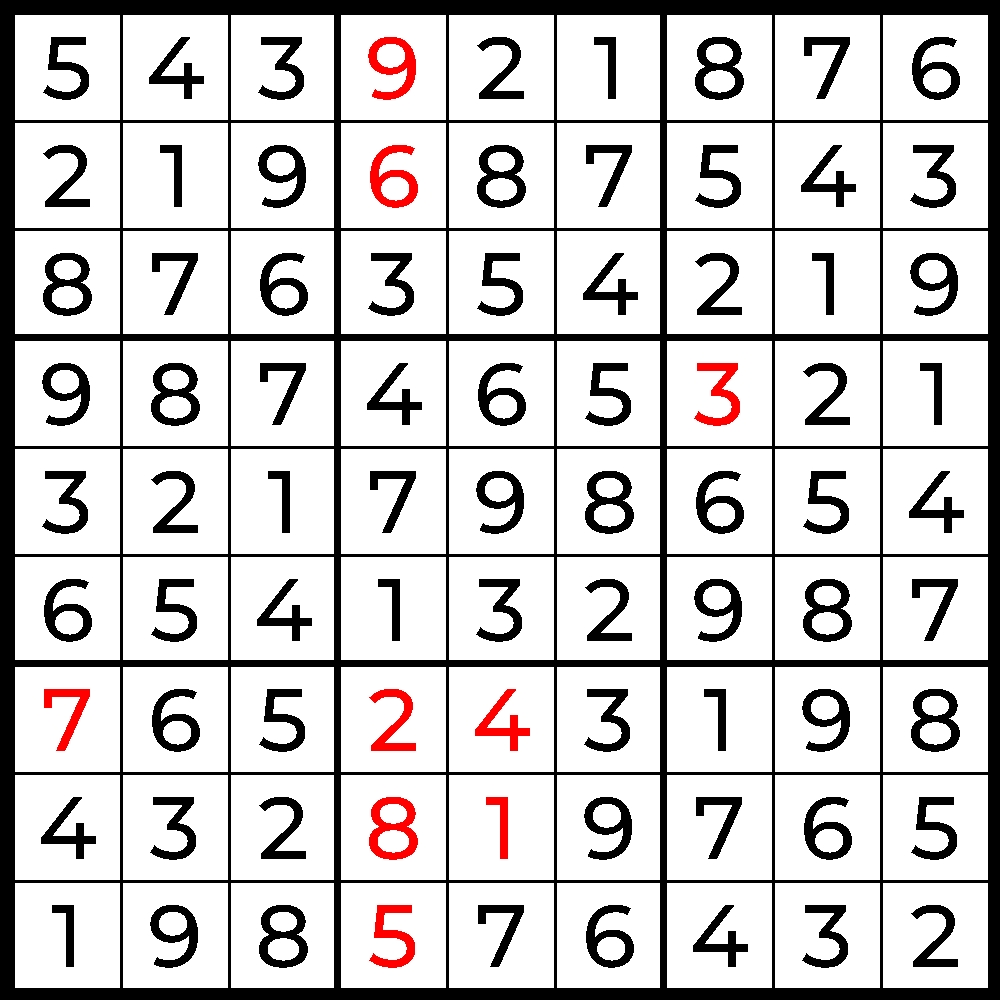
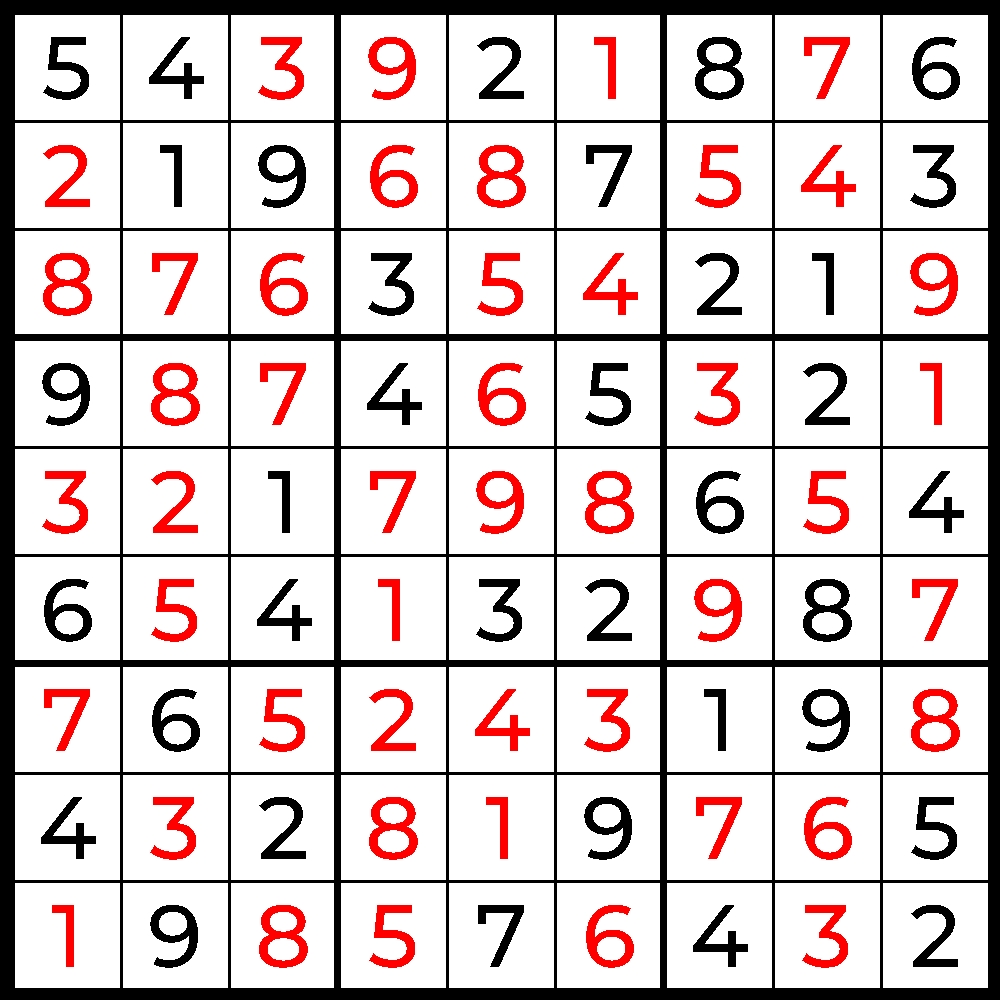
finish & fix create final grid

diff --git a/sudokuSolver/outputGrid/createOutputGrid.c b/sudokuSolver/outputGrid/createOutputGrid.c
@@ -8,6 +8,17 @@
 #include "../solver/sudoku_solver.h"
 #include <SDL_ttf.h>
 
+
+//path to file :
+
+//path to grid (input and solved)
+#define PATH_INPUT_GRID "../data/input_matrix/input_matrix.result"
+#define PATH_SOLVED_GRID "grid.result"
+
+//path to digit font
+#define PATH_FONT "../data/font/MontserratMedium.ttf"
+
+
 #define GRID_WIDTH 1000
 #define GRID_HEIGHT 1000
 
@@ -24,8 +35,26 @@ static int solvedGrid[9][9];
 static Uint32 lineColor;
 static Uint32 bgColor;
 
+static TTF_Font* font;
 
-void createGrid(SDL_Surface* img, int x_0, int y_0, int w, double widthBorder, int depthLevel, Uint32 digitColor, TTF_Font* font, int id){
+
+/***************************************************************
+ *  Function createGrid: 
+ *
+ *  Recursif function to create all square with digit of the grid 
+ *
+ *  @intput :
+ *      - img (SDL_Surface*) : input image (only background)
+ *      - x_0 (int) : x coordonate to start to draw
+ *      - y_0 (int) : y coordonate to start to draw
+ *      - w (int) : width of the square to draw
+ *      - widthBorder (double) : witdh of sqare's borders to draw
+ *      - depthLevel (int) : level of the recursion (nb of recursion inside)
+ *      - digitColor (Uint32) : color of the digit 
+ *      - id (int) : id of the current case (use to calculate x,y in the grid)
+***************************************************************/
+
+void createGrid(SDL_Surface* img, int x_0, int y_0, int w, double widthBorder, int depthLevel, Uint32 digitColor, int id){
     
     if(depthLevel <= 0){
         return;
@@ -62,20 +91,18 @@ void createGrid(SDL_Surface* img, int x_0, int y_0, int w, double widthBorder, i
 
         SDL_BlitSurface(textSurface, NULL, img, &dstRect);
         SDL_FreeSurface(textSurface);
+        return;
     }
 
-
-
+    //start to create sub square / recurtion
     int new_widthBorder = (int) (widthBorder * RATIO_BORDER);
     int new_w = w / NB_SUB_square ;
-
     depthLevel--;
 
     for (int x = 0; x < NB_SUB_square; x++)
     {
         for (int y = 0; y < NB_SUB_square; y++)
-        {
-            
+        {            
             int new_x_0 = x_0 + widthBorder - new_widthBorder + x * (new_w - new_widthBorder);
             int new_y_0 = y_0 + widthBorder - new_widthBorder + y * (new_w - new_widthBorder);
 
@@ -92,49 +119,69 @@ void createGrid(SDL_Surface* img, int x_0, int y_0, int w, double widthBorder, i
 
                 if(defaultGrid[(id/3)*3 + y][(id%3)*3 + x] == 0){
                     new_id = solvedGrid[(id/3)*3 + y][(id%3)*3 + x];
+                    createGrid(img, new_x_0, new_y_0, new_w, new_widthBorder, depthLevel, digitColor, new_id);
+                    continue;
+
                 }else{
-                    new_id = defaultGrid[(id/3)*3 + y][(id%3)*3 + x];  
-                    digitColor = lineColor; 
-                    
+                    new_id = defaultGrid[(id/3)*3 + y][(id%3)*3 + x];
+                    createGrid(img, new_x_0, new_y_0, new_w, new_widthBorder, depthLevel, lineColor, new_id);
+                    continue;
                 }
             }
 
-            createGrid(img, new_x_0, new_y_0, new_w, new_widthBorder, depthLevel, digitColor ,font, new_id);
+            createGrid(img, new_x_0, new_y_0, new_w, new_widthBorder, depthLevel, digitColor, new_id);
         }        
     }
     
 }
 
 
+/***************************************************************
+ *  Function gridBuilder: 
+ *
+ *  hat function to create grid
+ *
+ *  @input :
+ *      - img (SDL_Surface*) : input surface to build grid
+***************************************************************/
 
-void gridBuilder(SDL_Surface* img, TTF_Font* font){
+void gridBuilder(SDL_Surface* img){
     
     //base color
     bgColor = SDL_MapRGBA(img->format, 255, 255, 255, 0);
     lineColor = SDL_MapRGBA(img->format, 0, 0, 0, 0);
 
 
-    //crete background of the grid
+    //create background of the grid
     SDL_Rect rect =  {0, 0, GRID_WIDTH ,GRID_HEIGHT};
     SDL_FillRect(img, &rect, bgColor);
 
+    //Color of the digit (default : red)
     Uint32 digitColor = SDL_MapRGBA(img->format, 255, 0, 0, 0);
 
 
     //start recursion of the grid build
-    createGrid(img, 0,0, img->w, WIDTH_BORDER, 3, digitColor, font, 0);
+    createGrid(img, 0,0, img->w, WIDTH_BORDER, 3, digitColor, 0);
 }
 
 
-SDL_Surface* createOutputGrid(const char *path){
+/***************************************************************
+ *  Function gridBuilder: 
+ *
+ *  main function to create all the final grid
+ *
+ *  @output :
+ *      - img (SDL_Surface*) : final img of the final grid
+***************************************************************/
+SDL_Surface* createOutputGrid(){
 
     //Load sudoku grids (file.result)
 
-    if(loadGrid("/media/prog/OCR-Sudoku-Solver/data/input_matrix/input_matrix.result", defaultGrid) == 1){
+    if(loadGrid(PATH_INPUT_GRID, defaultGrid) == 1){
         errx(1, "Error can't to load default grid.");
     }
     
-    if(loadGrid(path, solvedGrid) == 1){
+    if(loadGrid(PATH_SOLVED_GRID, solvedGrid) == 1){
         errx(1, "Error can't to load solved grid.");
     }
 
@@ -152,7 +199,7 @@ SDL_Surface* createOutputGrid(const char *path){
 
 
     //Load font to write digit
-    TTF_Font* font = TTF_OpenFont("/media/prog/OCR-Sudoku-Solver/data/font/MontserratMedium.ttf", GRID_WIDTH/9 * FONT_RATIO);
+    font = TTF_OpenFont(PATH_FONT, GRID_WIDTH/9 * FONT_RATIO);
     if (!font) {
         errx(1, "Error to load font.ttf.\n");        
     }
@@ -163,10 +210,8 @@ SDL_Surface* createOutputGrid(const char *path){
 
 
     //build representation grid of sudokuGrid
-    gridBuilder(outputImg, font);
+    gridBuilder(outputImg);
 
-    //save img of the representation
-    saveImg(outputImg, "outputGrid.jpg");
 
 
     //Close libs
@@ -176,4 +221,3 @@ SDL_Surface* createOutputGrid(const char *path){
 
     return outputImg;
 }
-

diff --git a/sudokuSolver/main.c b/sudokuSolver/main.c
@@ -20,7 +20,8 @@ int main(){
         return 1; 
     }
 
-    createOutputGrid(outputFileName);
+    SDL_Surface* finalGrid = createOutputGrid();
+    saveImg(finalGrid, "outputGrid.jpg");
 
 
     return 0; 

diff --git a/sudokuSolver/outputGrid/createOutputGrid.h b/sudokuSolver/outputGrid/createOutputGrid.h
@@ -11,5 +11,5 @@
 #include <SDL_ttf.h>
 
 
-SDL_Surface* createOutputGrid(const char *path);
+SDL_Surface* createOutputGrid();
 #endif
